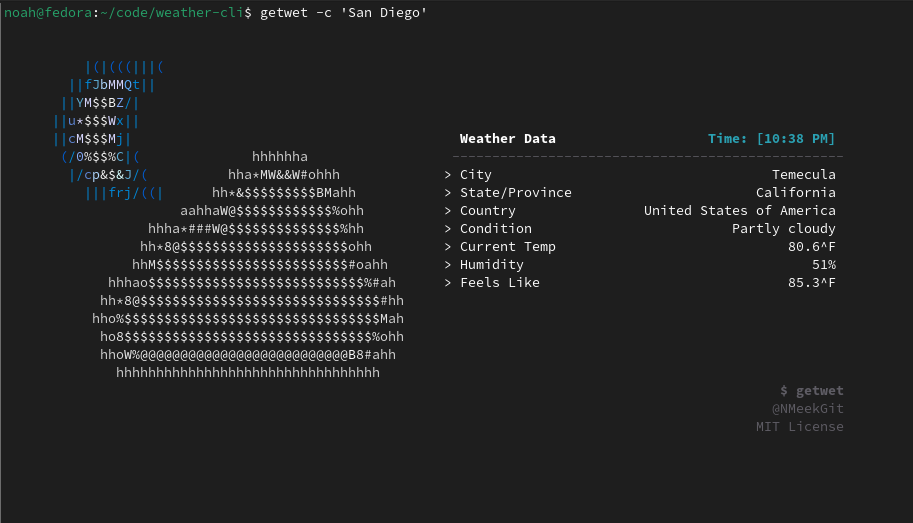
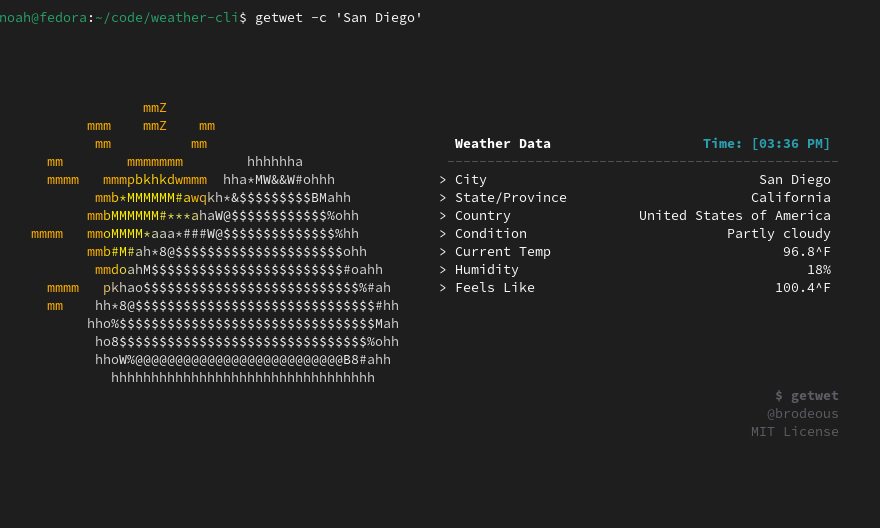
fixed footer

diff --git a/src/display.ts b/src/display.ts
@@ -7,7 +7,7 @@ const footer = () => {
     let data = "";
 
     data += ` ` + chalk.bold(chalk.gray(`$ getwet\n`.padStart(w)));
-    data += ` ` + chalk.gray(`@NMeekGit\n`.padStart(w));
+    data += ` ` + chalk.gray(`@brodeous\n`.padStart(w));
     data += ` ` + chalk.gray(`MIT License\n`.padStart(w));
     return data;
 }
